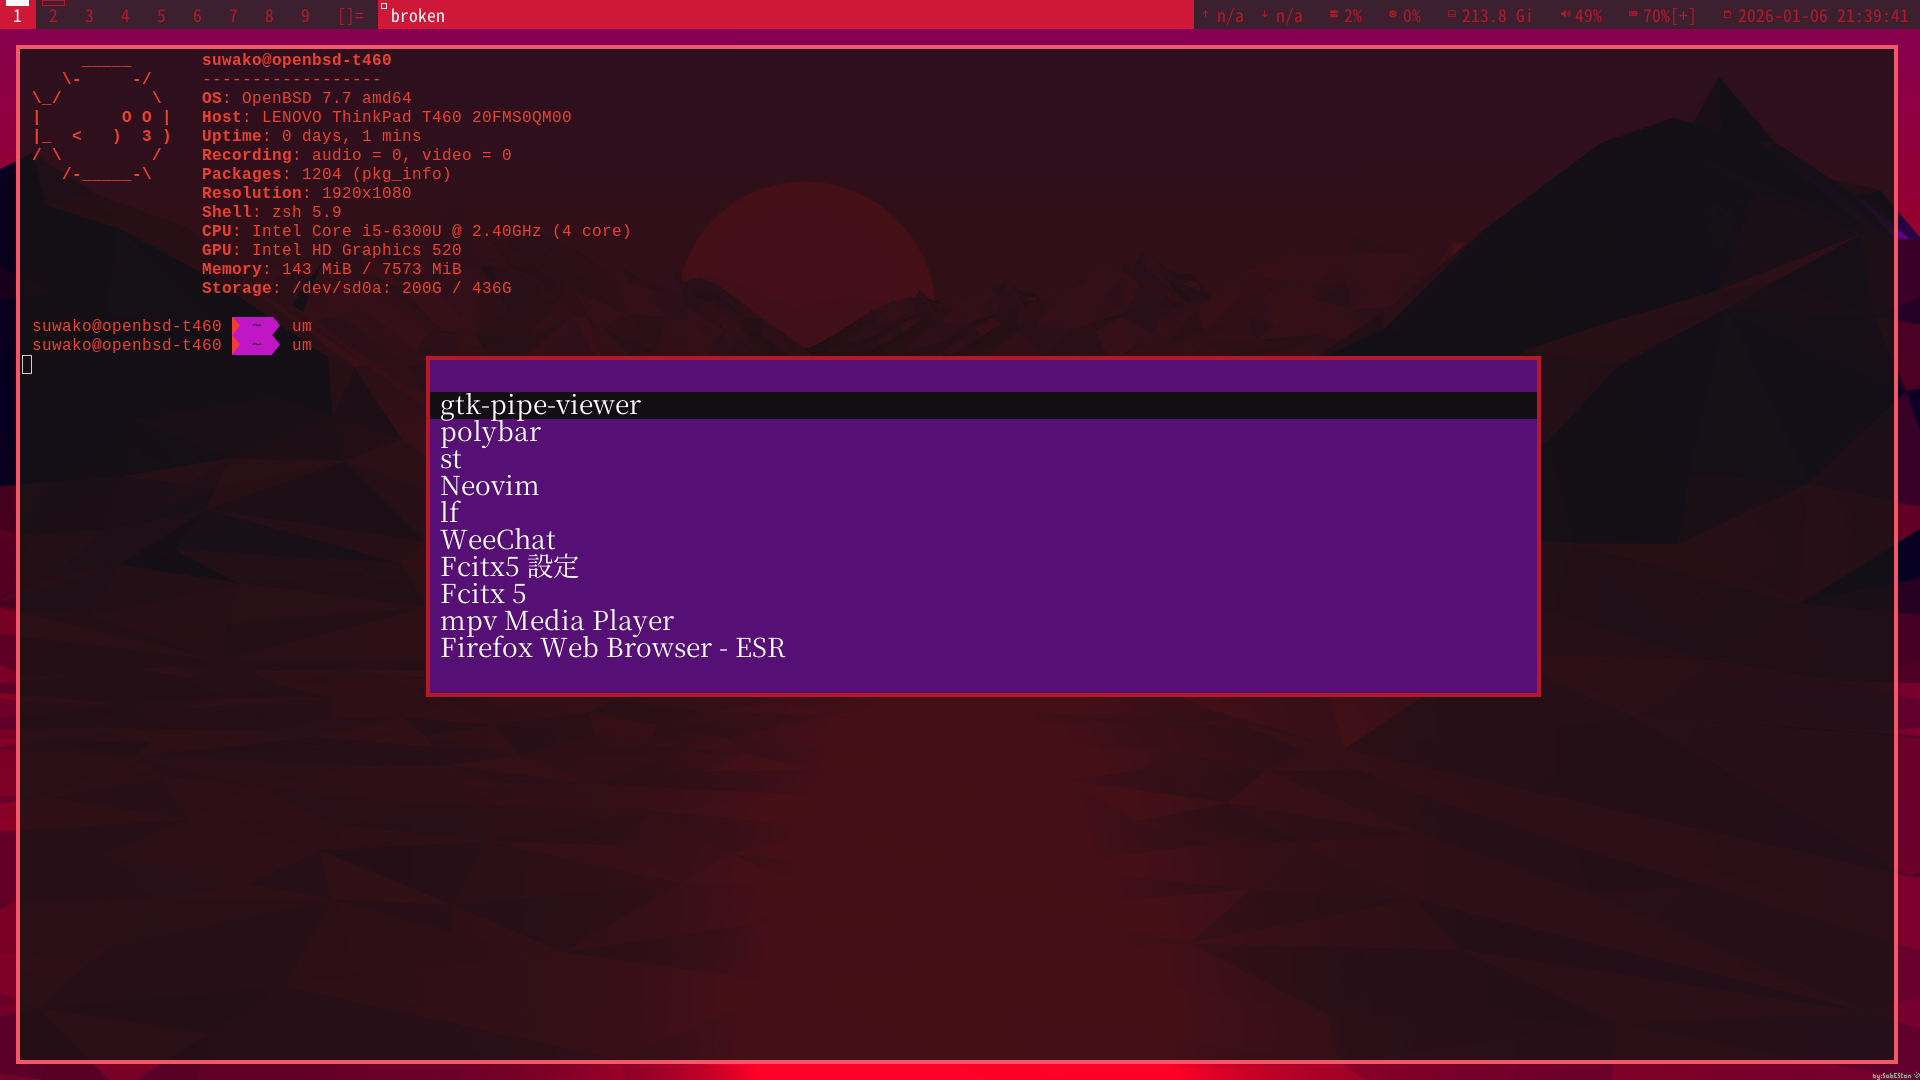
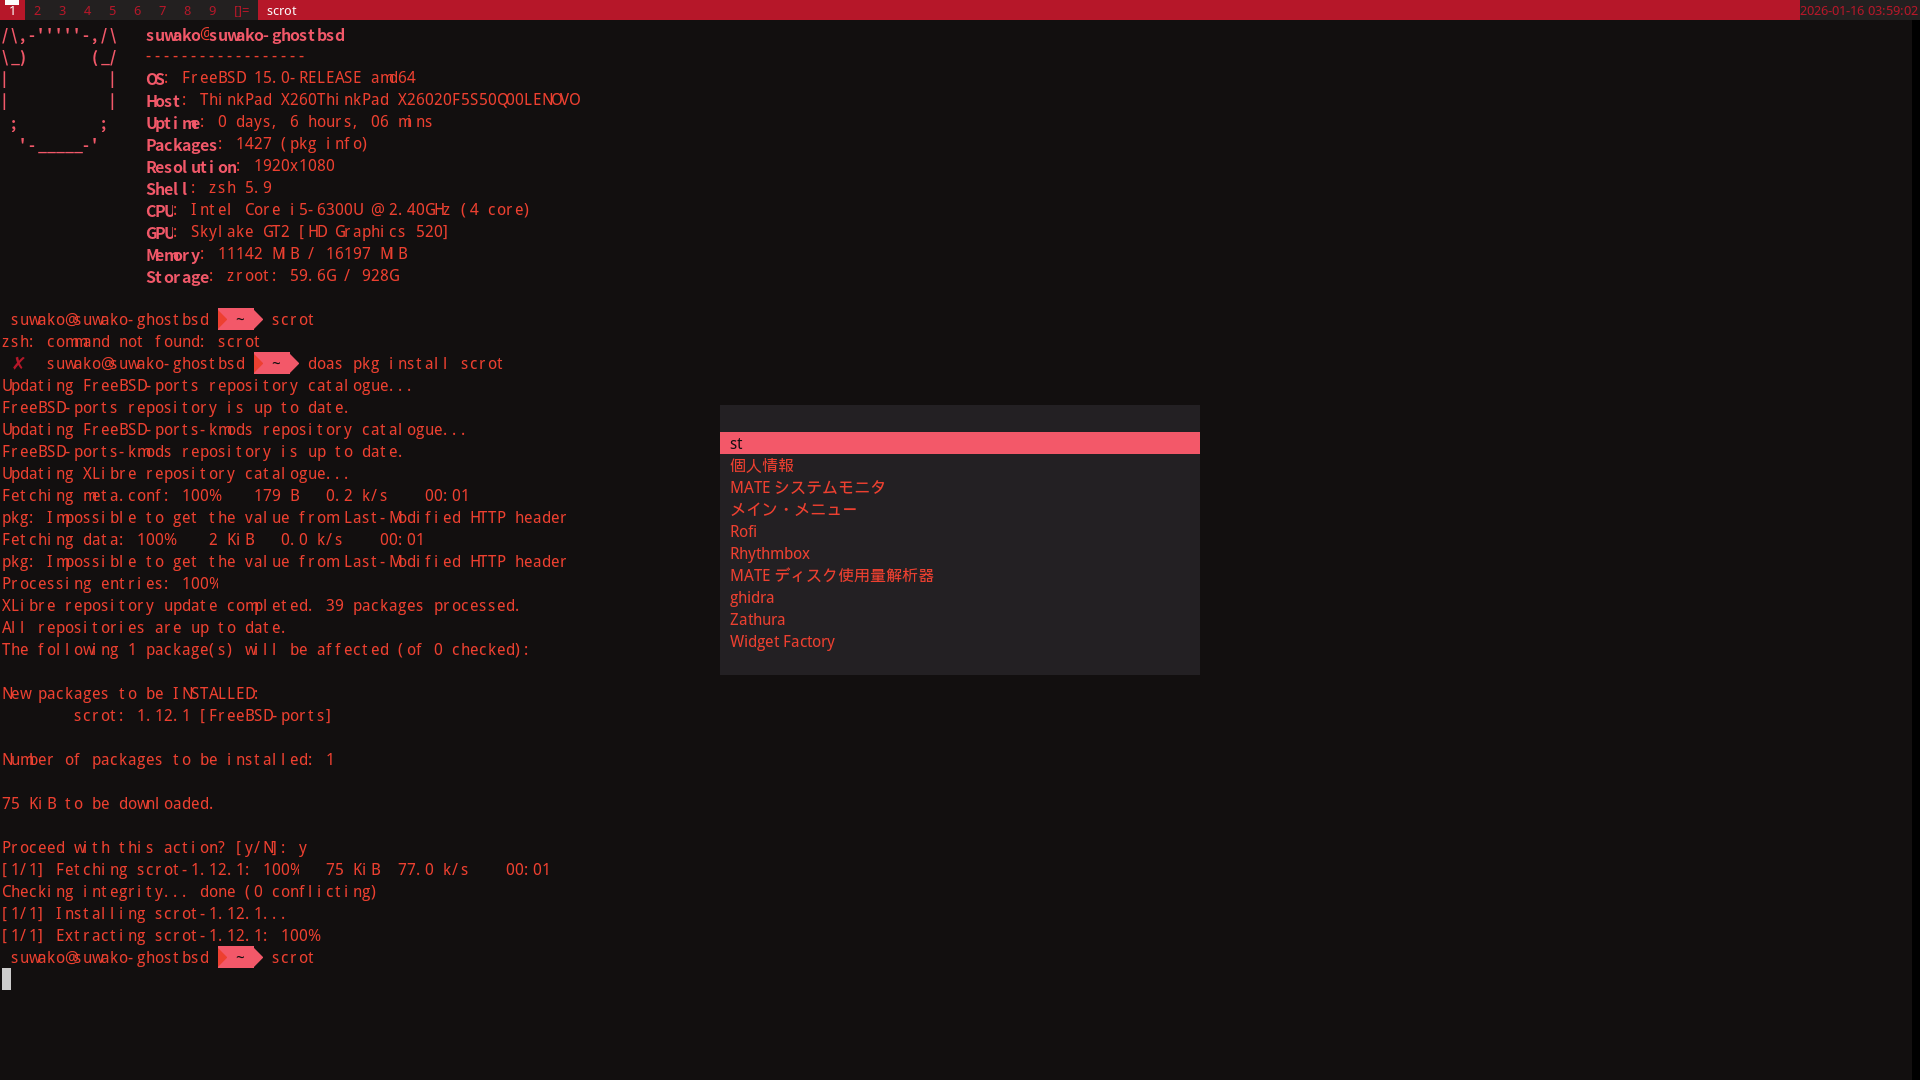
0.2.1

diff --git a/main.c b/main.c
@@ -1,6 +1,8 @@
 #include <stdio.h>
 #include <stdlib.h>
 
+#include <X11/Xatom.h>
+
 #include "src/control.h"
 #include "src/program.h"
 #include "src/display.h"
@@ -14,7 +16,7 @@ XftFont *font;
 Visual *visual;
 
 const char *sofname = "um";
-const char *version = "0.2.0";
+const char *version = "0.2.1";
 
 int main() {
   Display *display;
@@ -44,10 +46,16 @@ int main() {
   int window_y = (screen_height - window_height) / 2;
 
   window = XCreateSimpleWindow(display, RootWindow(display, screen),
-      window_x, window_y, window_width, window_height, 1, BLACK, BLACK);
+      window_x, window_y, window_width, window_height, 1, FGCOL, FGCOL);
   if (!window) {
     cleanup(display, window, gc, &color, &selcolor, draw, font, colormap, visual);
   }
+
+  Atom net_wm_window_type = XInternAtom(display, "_NET_WM_WINDOW_TYPE", False);
+  Atom dialog = XInternAtom(display, "_NET_WM_WINDOW_TYPE_DIALOG", False);
+
+  XChangeProperty(display, window, net_wm_window_type, XA_ATOM, 32,
+      PropModeReplace, (unsigned char *)&dialog, 1);
 
   XSetWindowBackground(display, window, BGCOL);
 
@@ -84,12 +92,12 @@ int main() {
     exit(1);
   }
 
-  if (!XftColorAllocName(display, visual, colormap, "white", &color)) {
+  if (!XftColorAllocName(display, visual, colormap, "#ee4030", &color)) {
     cleanup(display, window, gc, &color, &selcolor, draw, font, colormap, visual);
     fprintf(stderr, "色の役割に失敗。\n");
   }
 
-  if (!XftColorAllocName(display, visual, colormap, "black", &selcolor)) {
+  if (!XftColorAllocName(display, visual, colormap, "#120f12", &selcolor)) {
     cleanup(display, window, gc, &color, &selcolor, draw, font, colormap, visual);
     fprintf(stderr, "選択色の役割に失敗。\n");
   }

diff --git a/src/display.c b/src/display.c
@@ -6,16 +6,17 @@ int topidx = 0;
 
 void drawtext(
   Display *display, Window window, GC gc, int x, int y, const char *text, int sel) {
+  XftColor *fgCol = (sel) ? &selcolor : &color;
   if (sel) {
-    XSetForeground(display, gc, BLACK);
+    XSetForeground(display, gc, BGSEL);
     XFillRectangle(
         display, window, gc, 0, y - item_height + 5, window_width, item_height);
-    XSetForeground(display, gc, BLACK);
+    XSetForeground(display, gc, BGCOL);
   } else {
-    XSetForeground(display, gc, WHITE);
+    XSetForeground(display, gc, FGSEL);
   }
 
-  XftDrawStringUtf8(draw, &color, font, x, y, (const FcChar8 *)text, strlen(text));
+  XftDrawStringUtf8(draw, fgCol, font, x, y, (const FcChar8 *)text, strlen(text));
 }
 
 void filterdisplay(

diff --git a/src/program.h b/src/program.h
@@ -8,9 +8,10 @@
 #define MAX_NAME_LEN 256
 #define MAX_LINE_LENGTH 256
 
-#define WHITE 0xfcfcfc
-#define BLACK 0x120f12
-#define BGCOL 0x550f75
+#define FGCOL 0xb61729
+#define FGSEL 0x120f12
+#define BGSEL 0xf35869
+#define BGCOL 0x232023
 
 typedef struct {
   char name[MAX_NAME_LEN];

diff --git a/CHANGELOG.md b/CHANGELOG.md
@@ -1,3 +1,7 @@
+# 0.2.1 (2026/01/16)
+* DWMでうまく表示する様に
+* あたしのDWMテーマに合わせる
+
 # 0.2.0 (2025/07/07)
 * .desktopファイルがなければ、$PATHから実効してみる様に
 * um.desktopファイルの追加
